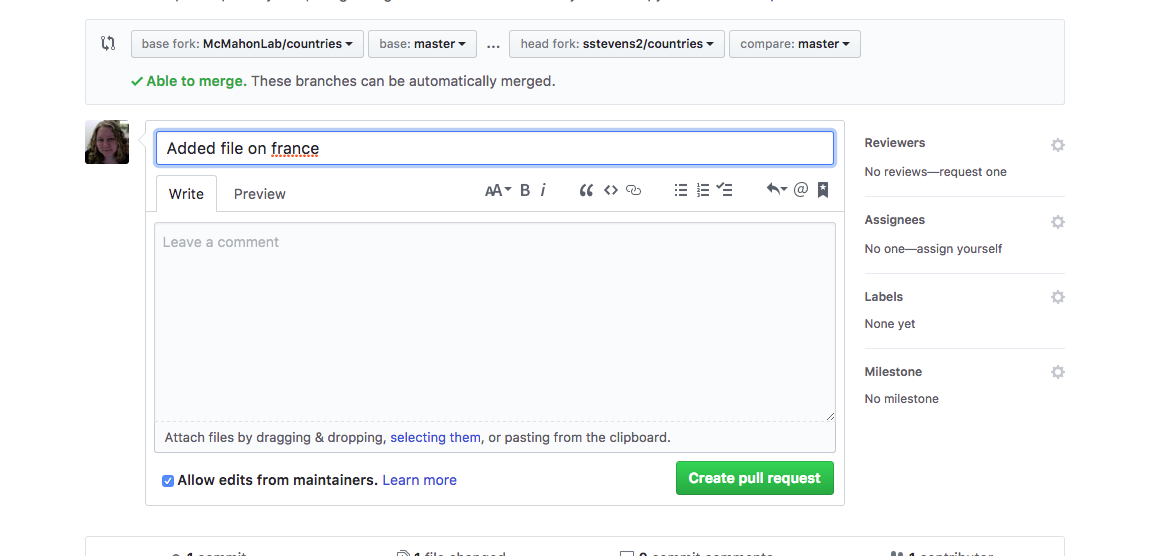
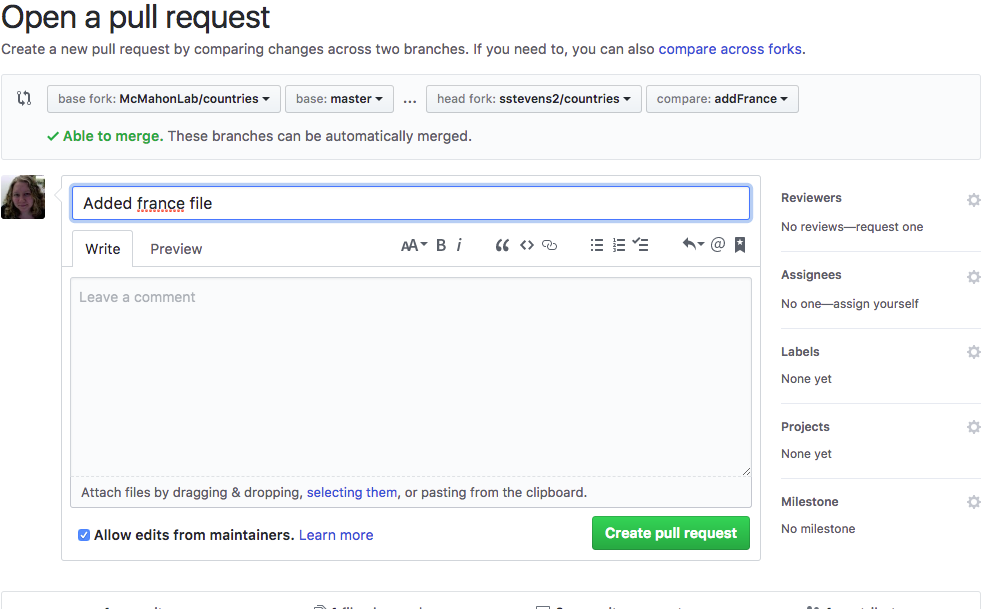
Major revisions of the pull request lesson

diff --git a/episodes/09-pull-requests.md b/episodes/09-pull-requests.md
@@ -1,7 +1,7 @@
 ---
 title: Pull Requests
 teaching: 60
-exercises: 1
+exercises: 15
 questions:
 - "What are pull requests for?"
 - "How can I make a pull request"
@@ -90,20 +90,32 @@ Next we will set up a connection or **remote** to the authoritative repository
 In your browser, you can go back this repo by clicking on the link that says 'forked from'
 in the upper left hand corner, under your username and repo name.
 
-Copy the web address for this repo (from the web address line or click the 'clone and download' and copy that).
+Copy the web address for this repo 
+(from the web address line or click the 'clone and download' and copy that).
 
 ![](../fig/github_screenshot_upstream_repo.png)
 
 Then back in your terminal, navigate in the cloned repo and add the remote connection.
-For this command we must give the new connection a different nickname, where our original connection is 'origin'
+For this command we must give the new connection a different nickname, 
+where our original connection is 'origin'
 this new connection will be called 'upstream'.
-You could give it a different nickname but often the authoritative is often 'upstream'
+You could give it a different nickname but 'upstream' is a common nickname for
+the authoritative repository.
 
 ~~~
 $ cd countries
-$ git remote add upstream https://github.com/McMahonLab/countries.git
+$ git remote add upstream https://github.com/INSTRUCTOR-GIVEN/countries.git
 ~~~
 {: .bash}
+
+> ## If you tried copying the command above...
+>
+> You will have to replace 'INSTRUCTOR-GIVEN' with the site your instructor
+> indicated at the beginning of this lesson. This will vary depending
+> on how your instructor set up for this lesson.
+> 
+> 
+{: .callout}
 
 At anytime you can see the remote connections your repo has using the following command:
 
@@ -115,32 +127,66 @@ $ git remote -v
 ~~~
 origin	https://github.com/USERNAME/countries.git (fetch)
 origin	https://github.com/USERNAME/countries.git (push)
-upstream	https://github.com/McMahonLab/countries.git (fetch)
-upstream	https://github.com/McMahonLab/countries.git (push)
+upstream	https://github.com/INSTRUCTOR-GIVEN/countries.git (fetch)
+upstream	https://github.com/INSTRUCTOR-GIVEN/countries.git (push)
 ~~~
 {: .output}
 
-Now that we have this setup done, which is only needed the first time, we can now suggest changes to this repo.
-Each person will add info about a specific country to the repo.
-Since you cloned the repo a template file with info on the United States has been added.
-First we will update our local version of the repo, with this change.
+Now that we have this setup done, which is only needed the first time, 
+we can now suggest changes to this repo.
+Each person will add a new file with info about a new country in it.
+
+The instructor will now add a single file to the repository containing 
+information about the the United States.
+
+Next, we will update our local version of the repo, with this change by `pull`ing down
+the changes from the 'upstream' version's master branch.
 
 ~~~
 $ git pull upstream master
 ~~~
 {: .bash}
 
-Now your local version of the repo is updated but our forked version of the repo is not yet up to date.
-Now we will update the our forked version.
+Now your local version of the repo is updated but our forked version of the 
+repo is not yet up to date.
+You can reload your fork in github and see it does not contain the new 
+`united_states.txt` file.
+Now we need to update the our forked version.
+To do so we can `push` the changes in our local version to the master branch of our fork, 
+called 'origin'.
 
 ~~~
 $ git push origin master
 ~~~
 {: .bash}
 
-Now you can add your country to repo.
-First copy `united_states.txt` and change the name to the name of your chosen country.
-Then edit the contents to reflect the info of your country.
+Now let's each add a new country to the repository.
+First let's make a new branch to work on.  This will keep our 'master' version
+in sync with the authoritative version of the repository.
+We can name our branch descriptively after the country we will be adding 
+Mine will be `addFrance` since I'll be working with France.
+Please pick a different country and shout it out (or add it to the etherpad) 
+so no one else chooses the same one.
+We will create the branch and switch into in one step 
+as we learned earlier in the branching lesson.
+Finally before we proceed to adding the new file, we will double 
+check that we are on the right branch.
+
+~~~
+$ git checkout -b addFrance
+$ git branch
+~~~
+{: .bash}
+
+~~~
+* addFrance
+  master
+~~~
+{: .output}
+
+Next we will copy `united_states.txt` and change the name to the name of our chosen country.
+Then we can use nano to edit the contents to reflect the info of your chosen country.  
+Hint: You may need to do some internet searching to fill in the information.
 
 ~~~
 $ cp united_states.txt france.txt
@@ -155,7 +201,7 @@ Capitol: Paris
 ~~~
 {: .output}
 
-Next add and commit the changes to the repo.
+Next let's add and commit the changes to the repo.
 
 ~~~
 $ git add france.txt
@@ -164,7 +210,7 @@ $ git commit -m "Added file on france"
 {: .bash}
 
 ~~~
-[master 79a312a] Added file on france
+[addFrance 79a312a] Added file on france
  1 file changed, 2 insertions(+), 2 deletions(-)
 ~~~
 {: .output}
@@ -172,9 +218,10 @@ $ git commit -m "Added file on france"
 Now we can push those changes to our forked version of the repo.
 Since we don't have permissions to the upstream repo or we want to suggest these changed be
 reviewed, if we do have permissions, we won't push directly to the upstream repo.
+Remember we need to push the name of our new branch.
 
 ~~~
-$ git push origin master
+$ git push origin addFrance
 ~~~
 {: .bash}
 
@@ -191,23 +238,40 @@ To https://github.com/USERNAME/countries.git
 {: .output}
 
 Next go to your forked github version of the repo and reload the page.
-You should see the changes in your version of the repo.
+You won't see the new file added in the list of files but you will see 
+that you recently pushed a new branch to the repository.
 
-![](../fig/github_screenshot_origin_wFrance.png)
+![](../fig/github_screenshot_origin_master_addFrance.png)
+
+If you wish to view your new branch you can click on the 'Branch' drop down menu
+and select that branch.
+
+![](../fig/github_screenshot_switch_github_branch.png)
+
+Then you should be able to view the files and commits in that branch.
+
+![](../fig/github_screenshot_origin_master_addFrance.png)
+
+Github already suspects that we are going to want to make a pull request so we can click
+the 'Compare & pull request' button to start a new pull request.
 
 Then click the 'New pull request' button.
 
 ![](../fig/github_screenshot_makingPR1.png)
 
-The base fork should be the upstream version and then the head fork should be your version.
-Then click the 'create pull request button'.
+The base fork should be the upstream/authoritative version's master branch and then 
+the head fork should be the new branch of our fork.
+You can add more information into the comment section if there is anything you'd like 
+to add for the person who reviews your suggestion.
+Then you can click the 'create pull request button' to submit the pull request.
 
 ![](../fig/github_screenshot_makingPR2.png)
 
 Now someone with privileges to the upstream repo can review it, give comments and
 suggestions, and merge it into the upstream version.
 
-Let's add a line to our file and see how/if this changes our pull request.
+Our collaborator reviewing the pull request noticed that 
+we forgot to add the largest city so let's add it and update our pull request.
 
 ~~~
 $ nano france.txt
@@ -223,99 +287,44 @@ Largest City: Paris
 {: .output}
 
 Next we will add and commit these changes.
-Then we will push them to our forked version of the repo.
+Then we can push them to our forked version of the repo.
 
 ~~~
 $ git add france.txt
 $ git commit -m "Added largest city to france file"
-$ git push origin master
+$ git push origin addFrance
 ~~~
 {: .bash}
 
 Now if we reload the pull request.  The new commit was added to that pull request.
+New commits pushed to the same branch are included in the previous pull request.
+If you want to suggest changes separately you need to make separate branches but 
+if you want the changes to be considered together you should put them in the same branch.
 
 ![](../figgithub_screenshot_after_new_commit.png)
 
-This is great for our purposes but you can imagine you may want to suggest changes that
-aren't linked to one another.
-This is one place where branches come in.
-We can put the changes in a different branch and make a separate pull request for that branch.
-Branches can also be useful when you are developing a new function in your script and you
-don't want to 'break' the current version that is published in your repo.
 
-We will use a new branch and pull request to suggest the addition of a second country.
-You can create a branch and then switch to it with the following commands:
-
-~~~
-$ git branch addItaly
-$ git checkout addItaly
-~~~
-{: .bash}
-
-~~~
-Switched to branch 'addItaly'
-~~~
-{: .output}
-
-**OR** you can create the branch and switch to it in one step
-
-~~~
-$ git checkout -b addItaly
-~~~
-{: .bash}
-
-~~~
-Switched to branch 'addItaly'
-~~~
-{: .output}
-
-> ## Add new country file and make PR
+> ## Add new country file and make additional PR
 >
-> - Copy your first country file into a new country
+> - Starting in the master branch make a new branch
+> - Copy other country file into a new country
 > - Edit the file to include info on the new country
 > - Add and commit this new file
 > - Push the new changes to github
 > > ## Solution
 > >
 > > ~~~
-> > $ cp france.txt italy.txt
+> > $ git checkout master
+> > $ git checkout -b addItaly
+> > $ cp united_states.txt italy.txt
 > > $ nano italy.txt #Add the right info into the file
 > > $ git add italy.txt
 > > $ git commit -m "Added file on Italy"
-> > $ git push origin master
+> > $ git push origin addItaly
 > > ~~~
 > > {: .bash}
 > {: .solution}
 {: .challenge}
 
-
-> ## What branches exist
->
-> To see what branches exist of which branch you are on, you can type:
-> 
-> ~~~
-> git branch
-> ~~~
-> {: .bash}
-> ~~~
->   addItaly
-> * master
-> ~~~
-> {: .output}
-{: .callout}
-
-> ## Deleting a branch
->
-> To delete you can type:
-> 
-> ~~~
-> git branch -d add Italy
-> ~~~
-> {: .bash}
-> ~~~
-> Deleted branch addItaly (was 58c24c2).
-> ~~~
-> {: .output}
-{: .callout}
 
 
